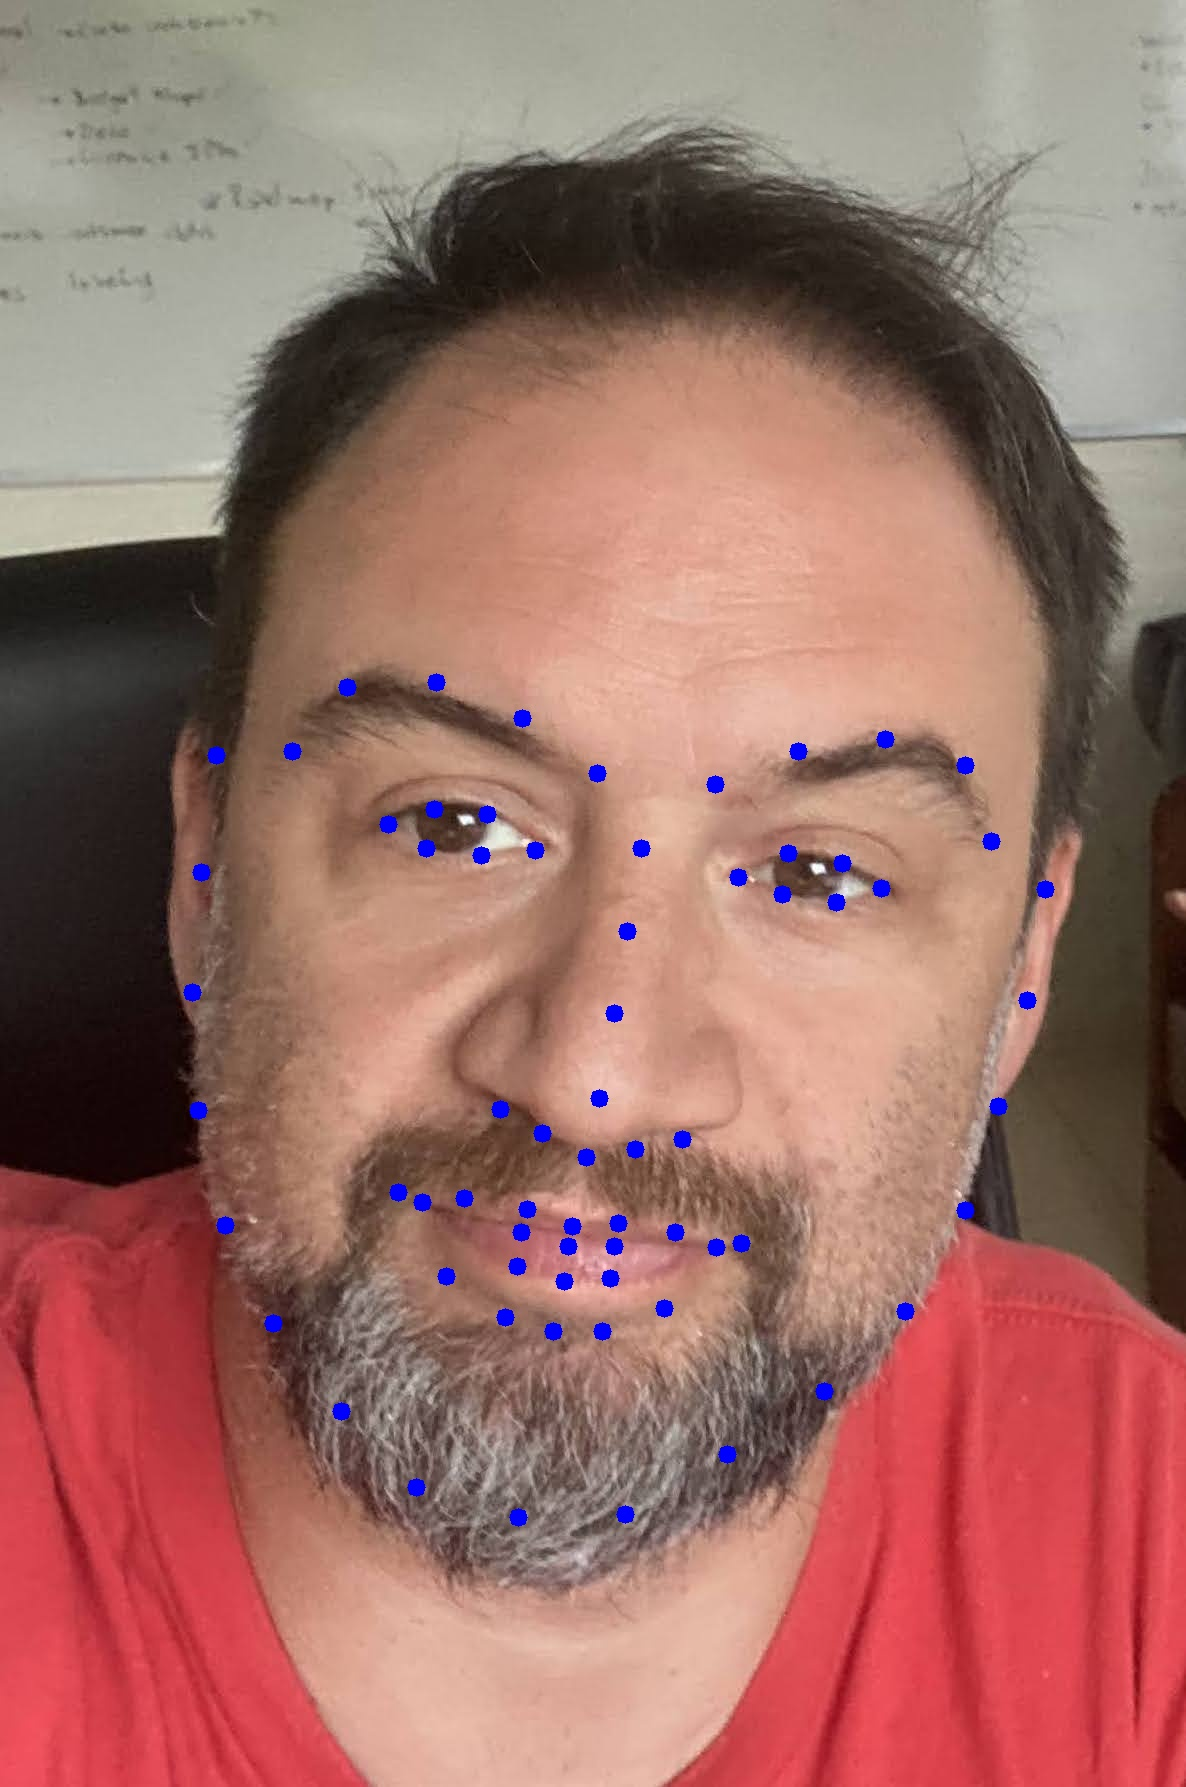
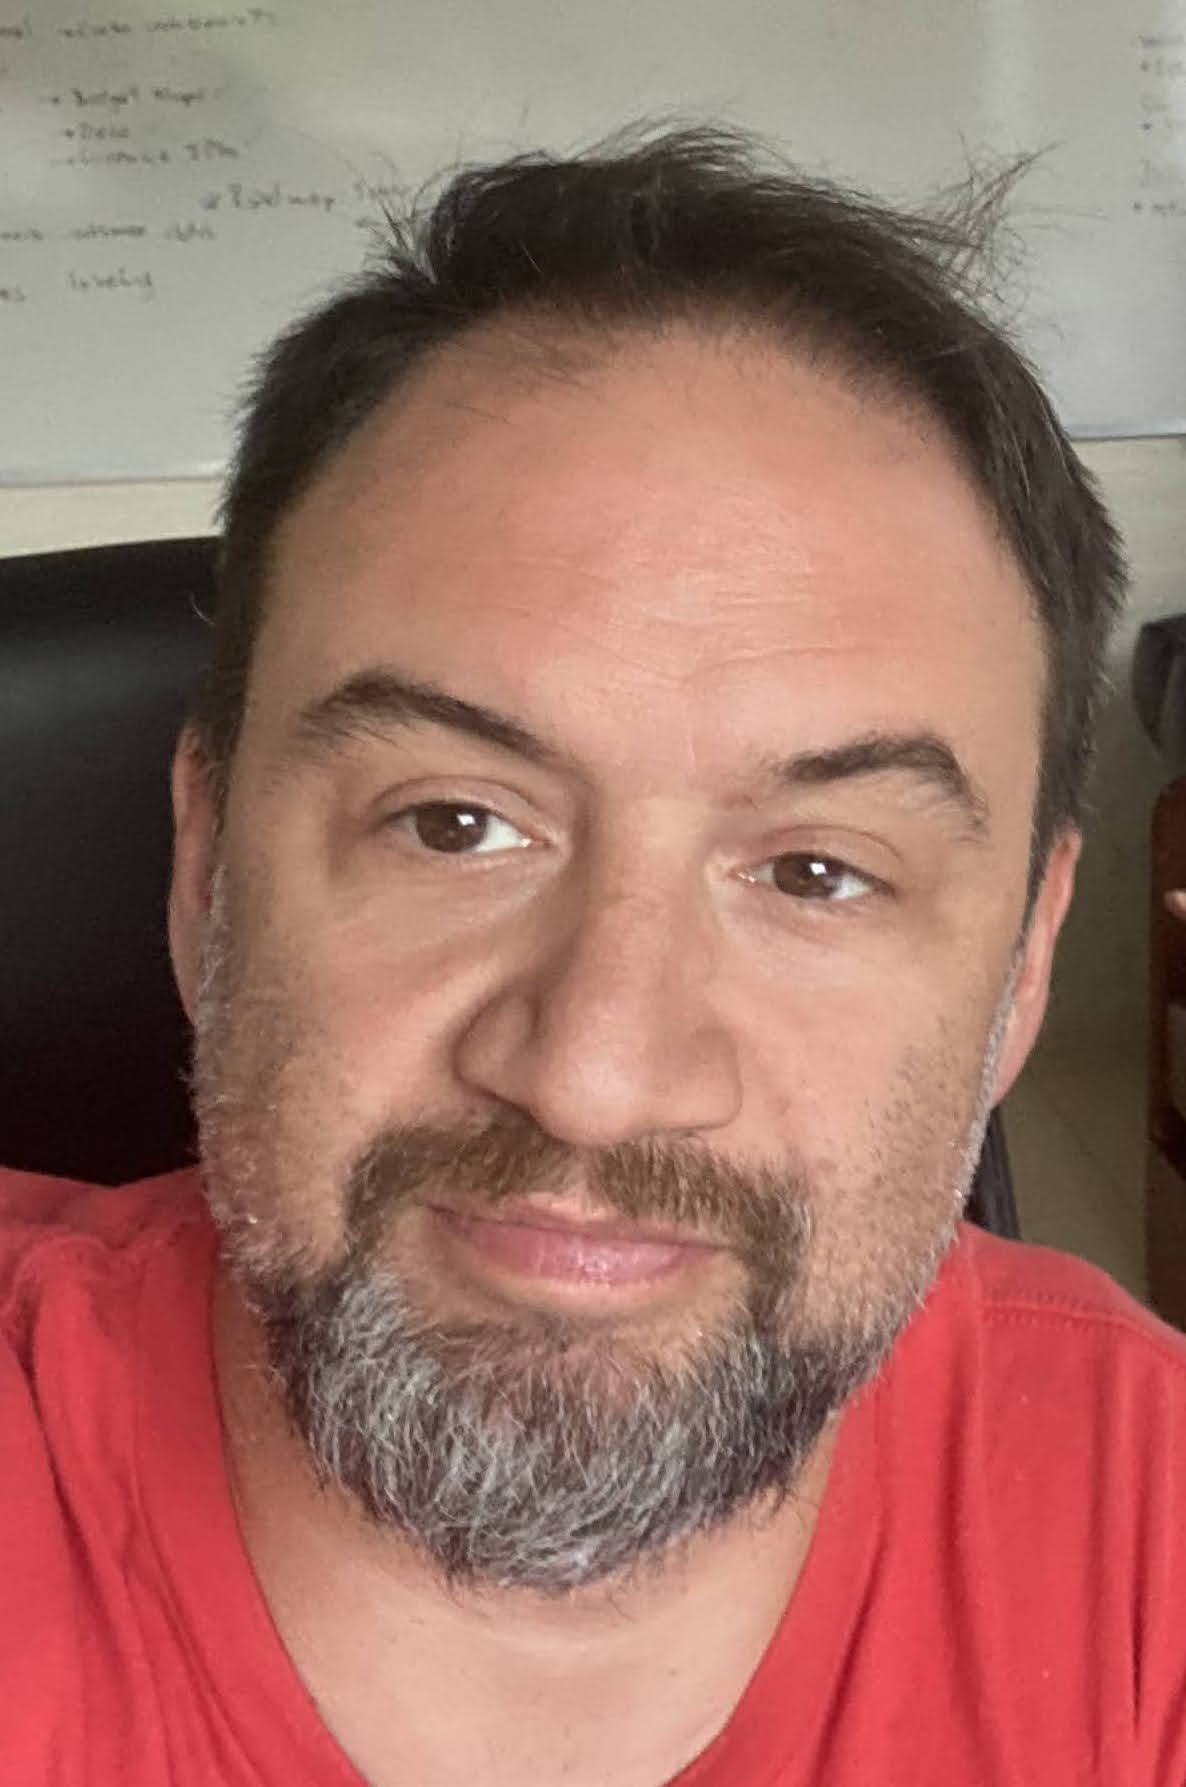
intento de modularizacion de corte

diff --git a/corte.py b/corte.py
@@ -1,45 +1,51 @@
 import json
 import cv2
 
-nombre = "data"
-with open(nombre + ".json") as archivo:
-        deteccion = json.load(archivo)
-image = cv2.imread("detected/face-detect.jpg")
-boundingbox = deteccion["boundingbox"]
+def cuerpo(imagenes, verbose = 1, input_dir = 'detected'):
+        for imagen in imagenes:
+                if verbose>=1:
+                        nombre_j = imagen[:imagen.rfind('.')]
+                        with open('Json/'+nombre_j + "_data.json") as archivo:
+                                deteccion = json.load(archivo)
+                        
+                        boundingbox = deteccion["boundingbox"]
 
-# Reading the image 
-image = cv2.imread('detected/face-detect.jpg') 
+                        # Reading the image 
+                        image = cv2.imread(input_dir+'/'+imagen)
   
-# Extracting height and width from  
-# image shape 
-height, width = image.shape[:2] 
+                        # Extracting height and width from  
+                        # image shape 
+                        height, width = image.shape[:2] 
   
-# get the center coordinates of the 
-# image to create the 2D rotation 
-# matrix 
-center = (boundingbox[0]+boundingbox[2]//2,boundingbox[1]+boundingbox[3]//2) 
+                        # get the center coordinates of the 
+                        # image to create the 2D rotation 
+                        # matrix 
+                        center = (boundingbox[0]+boundingbox[2]//2,boundingbox[1]+boundingbox[3]//2) 
 
-angulo = deteccion["angulos"]["cara"]
+                        angulo = deteccion["angulos"]["cara"]
   
-# using cv2.getRotationMatrix2D()  
-# to get the rotation matrix 
-rotate_matrix = cv2.getRotationMatrix2D(center, angulo, 1)
+                        # using cv2.getRotationMatrix2D()  
+                        # to get the rotation matrix 
+                        rotate_matrix = cv2.getRotationMatrix2D(center, angulo, 1)
   
-# rotate the image using cv2.warpAffine  
-# 90 degree anticlockwise 
-rotated_image = cv2.warpAffine(image, rotate_matrix, (width, height)) 
-  
-cv2.imshow("rotated image:", cv2.resize(rotated_image,(900,800)))
-cv2.waitKey(0)
-cv2.destroyAllWindows()
+                        # rotate the image using cv2.warpAffine  
+                        # 90 degree anticlockwise 
+                        rotated_image = cv2.warpAffine(image, rotate_matrix, (width, height)) 
 
-start_x = boundingbox[0]
-end_x = boundingbox[0]+boundingbox[2]
-start_y = boundingbox[1]
-end_y = boundingbox[1]+boundingbox[3]
+                        start_x = boundingbox[0]
+                        end_x = boundingbox[0]+boundingbox[2]
+                        start_y = boundingbox[1]
+                        end_y = boundingbox[1]+boundingbox[3]
 
-image_cropped = image[start_y:end_y, start_x:end_x]
+                        image_cropped = image[start_y:end_y, start_x:end_x]
+                
+                if verbose >=2:
 
-cv2.imshow("rotated image:", cv2.resize(image_cropped,(900,800)))
-cv2.waitKey(0)
-cv2.destroyAllWindows()
+                        cv2.imshow("face rotated:", cv2.resize(image_cropped,(900,800)))
+                        cv2.waitKey(0)
+                        cv2.destroyAllWindows()
+                
+        
+        return
+
+cuerpo(['input2.jpg'], 2)

diff --git a/facial-landmark-from-file-modificada.py b/facial-landmark-from-file-modificada.py
@@ -105,7 +105,7 @@ def cuerpo(imagenes, minimo_ancho_de_cara = 57, verbose = 2, input_dir="input", 
     return
 
 
-verbose = 2
+verbose = 1
 imagen = 4
 minimo_ancho_de_cara = 57
 
